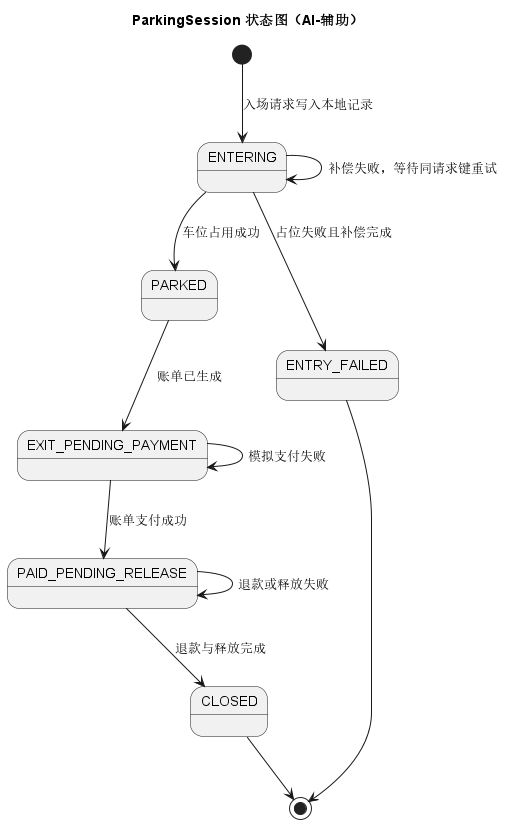
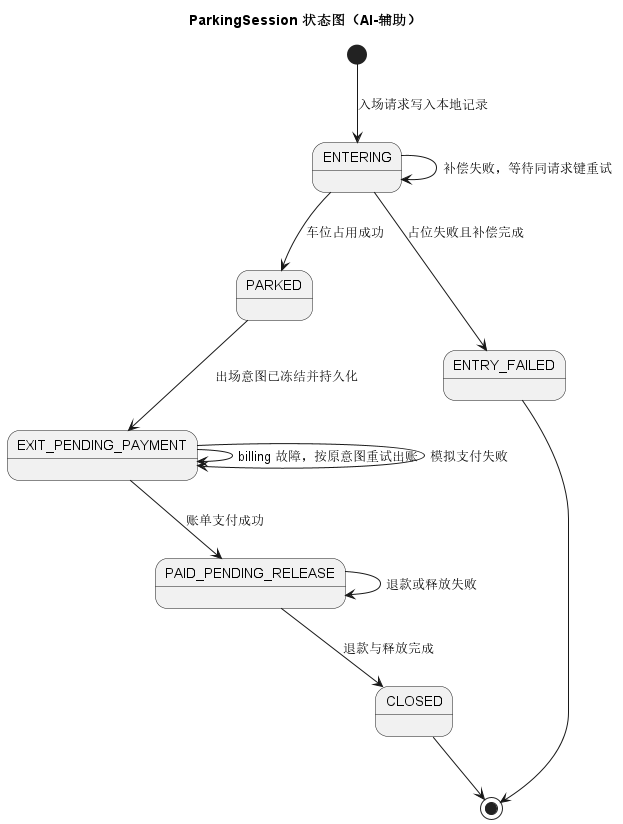
feat(models): 同步并发修复后的状态图、出场顺序图、活动图与部署图
按 AGENTS.md 第 7.5 节变更控制，代码语义变化必须同步到模型。

- 03 停车记录状态图：PARKED → EXIT_PENDING_PAYMENT 的触发条件由
  「账单已生成」改为「出场意图已冻结并持久化」；新增自环
  「billing 故障，按原意图重试出账」
- 08 出场设计顺序图：保存出场意图与置 EXIT_PENDING_PAYMENT 合并为原子步骤；
  新增 billing 暂不可用的 alt 分支（返回 DEPENDENCY_UNAVAILABLE，保留原意图）；
  完成出场部分改为 opt 包裹
- 11 跨服务活动图：新增「access 保存出场意图并记 EXIT_PENDING_PAYMENT」节点
  与「出账成功？」判定分支
- 13 部署图：Nacos 由「可选发现模式」改为实测的 Nacos 3.1.1 standalone
  （:8848 注册 / :8080 控制台），补六实例注册与 lb:// 服务名发现连线；
  注明本机联调已通过、配置中心未接入
- README 说明同步更新

4 张 PNG 由同一批源文件重新渲染。17 个 .puml 已 -checkonly 通过。

diff --git a/models/README.md b/models/README.md
@@ -2,6 +2,6 @@
 
 本目录存放可编辑的 PlantUML 源文件。当前 01～16 与服务依赖图均为【AI-辅助】实施草案，覆盖总体用例、领域模型、两类状态图、三个核心用例的 SSD/设计顺序图、跨服务活动图、组件图、部署图、通信图、核心设计类图和独立数据库 ER 概念图。
 
-已用本机 PlantUML 1.2024.3 对全部 17 个 `.puml` 文件执行 `-checkonly`，并从同一源文件生成 `rendered/` 下的 17 张 PNG。负责人仍需逐图审核业务语义，补报告图号、图题、正文引用和“模型—代码—测试”映射；图中任何与代码或数据库不一致的文字先修订源文件，再更新报告。尤其不要把可选 Nacos、消息队列或未运行组件画成已验证部署。
+已用本机 PlantUML 1.2024.3 对全部 17 个 `.puml` 文件执行 `-checkonly`，并从同一源文件生成 `rendered/` 下的 17 张 PNG。负责人仍需逐图审核业务语义，补报告图号、图题、正文引用和“模型—代码—测试”映射；图中任何与代码或数据库不一致的文字先修订源文件，再更新报告。13 号部署图在 2026-09-30 的本机 Nacos 3.1.1 联调后更新；不要把消息队列、Nacos 配置中心或未运行组件画成已验证部署。
 
 在项目根目录可用 `java -jar plantuml.jar -checkonly "models/*.puml"` 检查语法，再用 `java -jar plantuml.jar -charset UTF-8 -tpng -o rendered "models/*.puml"` 重建图片。`plantuml.jar` 可使用本机 VS Code PlantUML 扩展附带的版本；图片是源文件的派生产物。
